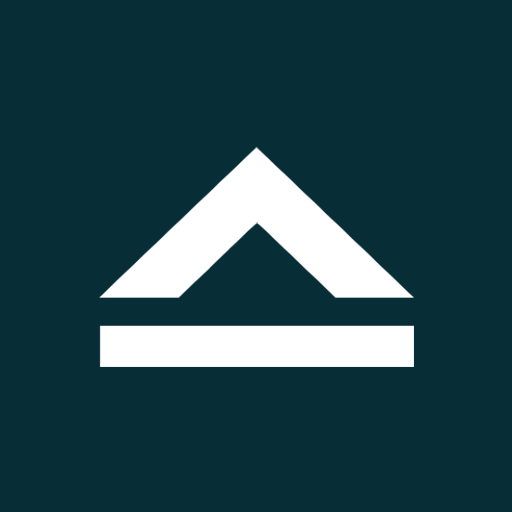
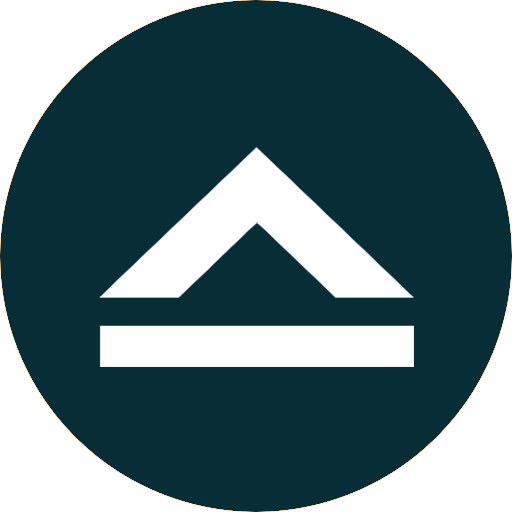
[marlin] UI improvements to the asset switch
Summary: Add a down pointing arrow to help identify the icon is clickable, standardize the icon size to 512px (large enough to use full size if needed, and pretty common), use a circular icon for Firma, improve the CSS.

Test Plan:
  pnpm run web
Check it's more obvious it's a button

Reviewers: #bitcoin_abc, bytesofman

Reviewed By: #bitcoin_abc, bytesofman

Differential Revision: https://reviews.bitcoinabc.org/D19862

diff --git a/apps/marlin-wallet/web/src/main.css b/apps/marlin-wallet/web/src/main.css
@@ -300,6 +300,7 @@ body.standalone-web {
     display: flex;
     align-items: center;
     justify-content: center;
+    gap: 4px;
     width: 36px;
     height: 36px;
     padding: 0;
@@ -309,13 +310,22 @@ body.standalone-web {
     cursor: pointer;
 }
 
-.asset-picker-btn:active {
-    opacity: 0.65;
+/* Dropdown carat to the left of the coin (only when an icon is present). */
+.asset-picker-btn:has(.asset-picker-btn-icon)::before {
+    content: '';
+    display: block;
+    flex-shrink: 0;
+    width: 0;
+    height: 0;
+    border-left: 4px solid transparent;
+    border-right: 4px solid transparent;
+    border-top: 5px solid #fff;
+    pointer-events: none;
 }
 
 .asset-picker-btn-icon {
-    width: 26px;
-    height: 26px;
+    width: 24px;
+    height: 24px;
     flex-shrink: 0;
     object-fit: contain;
 }
